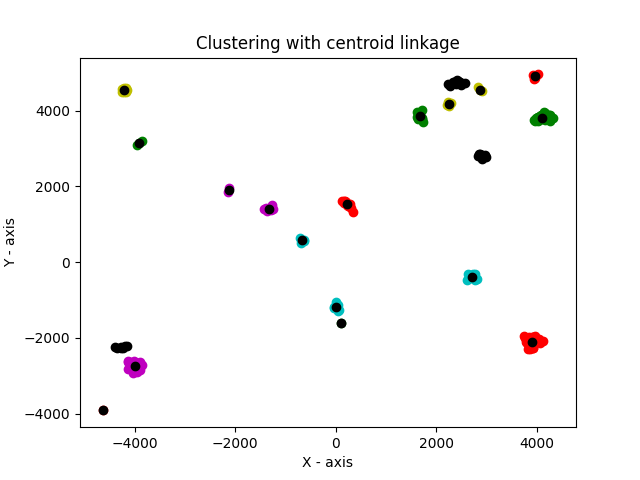
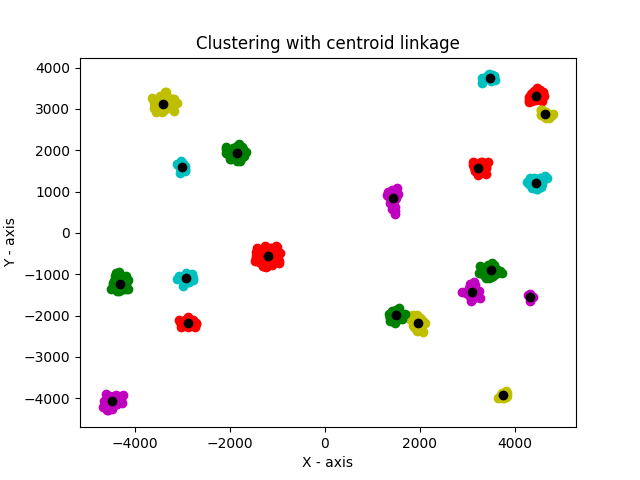
save dalsi

diff --git a/main.py b/main.py
@@ -1,10 +1,8 @@
 # UI assignment 3c -> clustering, author: Filip Zubaj, date: 17.11.2023
 from random import randint, choice
-from typing import List, Tuple
 import matplotlib.pyplot as plt
 
-# ----- DEFINITIONS -----
-point = Tuple[int, int]
+
 
 
 # ----- QUESTIONS -----
@@ -14,20 +12,48 @@ point = Tuple[int, int]
 # aglomeration -> centroid
 
 class Cluster:
-    def __init__(self, points: List[point], linkage: str):
+    def __init__(self, points, linkage):
         self.points = points
         self.linkage = linkage
         self.center = self.calculate_center(self.linkage)
         self.average_distance = self.calculate_average_distance()
+        self.avg_distance_under_500 = True
 
-    def calculate_center(self, linkage: str) -> point:
+    def calculate_center(self, linkage):
         if linkage == 'centroid':
+            x_sum, y_sum = map(sum, zip(*self.points))
+            return int(x_sum / len(self.points)), int(y_sum / len(self.points))
+        elif linkage == 'metoid':
+            metoid = self.points[0]
+            min_sum = sum(calculate_distance(metoid, one_point) for one_point in self.points)
 
+            for curr_point in self.points:
+                point_sum = sum(calculate_distance(curr_point, one_point) for one_point in self.points)
+                if point_sum < min_sum:
+                    min_sum = point_sum
+                    metoid = curr_point
 
+            return metoid
+        else:
+            print('Wrong linkage')
+            exit(1)
+
+    def calculate_average_distance(self):
+        center = self.calculate_center(self.linkage)
+        return sum(calculate_distance(center, cluster_point) for cluster_point in self.points) / len(self.points)
+
+    def update_center_and_distance(self):
+        self.center = self.calculate_center(self.linkage)
+        self.average_distance = self.calculate_average_distance()
+
+    def check_distance_condition(self, other_cluster):
+        check = self.average_distance + other_cluster.average_distance
+        if check > 500:
+            self.avg_distance_under_500 = False
 
 
 # generate 20 points in range (-5000, 5000) with random and unique X and Y coordinates
-def generate_origin_points() -> List[point]:
+def generate_origin_points():
     origin_points = set()
     while len(origin_points) < 20:
         x = randint(-5000, 5000)
@@ -37,7 +63,7 @@ def generate_origin_points() -> List[point]:
     return list(origin_points)
 
 
-def generate_matrix_of_distances(points: List[point]) -> List[List[float]]:
+def generate_matrix_of_distances(points):
     n = len(points)
     matrix_of_distances = [[0.0 for _ in range(n)] for _ in range(n)]
 
@@ -49,7 +75,7 @@ def generate_matrix_of_distances(points: List[point]) -> List[List[float]]:
     return matrix_of_distances
 
 
-def create_another_points(origin_points: List[point], number: int) -> List[point]:
+def create_another_points(origin_points, number):
     final_points = set(origin_points)
 
     boundary_x1 = -100
@@ -75,107 +101,75 @@ def create_another_points(origin_points: List[point], number: int) -> List[point
     return list(final_points)
 
 
-# I calculate centroid as integer -> average of X and Y coordinates
-def calculate_centroid(points: List[point]) -> point:
-    x_sum, y_sum = map(sum, zip(*points))
-    return int(x_sum / len(points)), int(y_sum / len(points))
-
-
-# metoid is the point, thas it has the smallest sum of distances to other points in cluster
-# it is not just an imaginary point, it is one of the points in cluster
-def calculate_metoid(points: List[point]) -> point:
-    metoid = points[0]
-    min_sum = sum(calculate_distance(metoid, one_point) for one_point in points)
-
-    for curr_point in points:
-        point_sum = sum(calculate_distance(curr_point, one_point) for one_point in points)
-        if point_sum < min_sum:
-            min_sum = point_sum
-            metoid = curr_point
-
-    return metoid
-
-
-def calculate_distance(point1: point, point2: point) -> float:
+def calculate_distance(point1, point2):
     return ((point1[0] - point2[0]) ** 2 + (point1[1] - point2[1]) ** 2) ** 0.5
 
 
-def calculate_cluster_distance(cluster1: List[point], cluster2: List[point], linkage: str) -> float:
-    if linkage == 'centroid':
-        center1 = calculate_centroid(cluster1)
-        center2 = calculate_centroid(cluster2)
-    elif linkage == 'metoid':
-        center1 = calculate_metoid(cluster1)
-        center2 = calculate_metoid(cluster2)
-    else:
-        print('Wrong linkage')
-        exit(1)
-    return calculate_distance(center1, center2)
+def calculate_cluster_distance(cluster1, cluster2):
+    return calculate_distance(cluster1.center, cluster2.center)
 
 
-def agglomerative_clustering(points: List[point], number_of_clusters: int, linkage: str) -> List[List[point]]:
+def agglomerative_clustering(points, number_of_clusters, linkage, num_points):
     # first we create the distance matrix
     # matrix_of_distances = generate_matrix_of_distances(points)
-    clusters = [[curr_point] for curr_point in points]
+    clusters = [Cluster([curr_point], linkage) for curr_point in points]
 
     while len(clusters) > number_of_clusters:
+
+        if len(clusters) == int(num_points * 0.75):
+            print("25% . . .")
+        elif len(clusters) == int(num_points / 2):
+            print("50% . . .")
+        elif len(clusters) == int(num_points / 4):
+            print("75% . . .")
+
         min_distance = float('inf')
         connect_clusters = (-1, -1)
 
         for i in range(len(clusters)):
             for j in range(i + 1, len(clusters)):
-                distance = calculate_cluster_distance(clusters[i], clusters[j], linkage)
-                if distance < min_distance:
+                distance = calculate_cluster_distance(clusters[i], clusters[j])
+                if distance < min_distance and clusters[i].avg_distance_under_500 and clusters[j].avg_distance_under_500:
                     min_distance = distance
                     connect_clusters = (i, j)
 
         if connect_clusters != (-1, -1):
-            clusters[connect_clusters[0]].extend(clusters[connect_clusters[1]])
+            clusters[connect_clusters[0]].check_distance_condition(clusters[connect_clusters[1]])
+            if not clusters[connect_clusters[0]].avg_distance_under_500:
+                continue
+            clusters[connect_clusters[0]].points.extend(clusters[connect_clusters[1]].points)
+            clusters[connect_clusters[0]].update_center_and_distance()
             del clusters[connect_clusters[1]]
 
     return clusters
 
-# nájst najmensiu hodnotu a indexy
-# spojiť tieto clusters
-# vymazať druhý cluster
-# update distance matrix
 
-
-def validate_clusters(clusters: List[List[point]], linkage: str) -> bool:
+def validate_clusters(clusters):
     unsuccessful = 0
     for i, cluster in enumerate(clusters):
-        if linkage == 'centroid':
-            center = calculate_centroid(cluster)
-        else:
-            center = calculate_metoid(cluster)
-
-        average_distance = sum(calculate_distance(center, cluster_point) for cluster_point in cluster) / len(cluster)
-        if average_distance > 500:
+        center, avg_distance = cluster.center, cluster.average_distance
+        if avg_distance > 500:
             unsuccessful += 1
             print(f'❌Error❌: unsuccessful cluster with number {str(i + 1)}')
         else:
             print(f'✅Success✅: successful cluster with number {str(i + 1)}')
 
         print(f'Center: {str(center)}')
-        print(f'Average distance from center: {str(average_distance)}')
+        print(f'Average distance from center: {str(avg_distance)}')
 
     print(f'Success rate: {100 - unsuccessful / len(clusters) * 100}%')
 
 
-def visualise_clusters(clusters: List[List[point]], linkage: str, filename) -> None:
+def visualise_clusters(clusters, filename):
     colors = ['r', 'g', 'y', 'c', 'm', 'k']
 
     for i, cluster in enumerate(clusters):
-        x = [one_point[0] for one_point in cluster]
-        y = [one_point[1] for one_point in cluster]
+        x = [one_point[0] for one_point in cluster.points]
+        y = [one_point[1] for one_point in cluster.points]
         plt.scatter(x, y, c=colors[i % len(colors)])
-        if linkage == 'centroid':
-            center = calculate_centroid(cluster)
-        else:
-            center = calculate_metoid(cluster)
-        plt.scatter(center[0], center[1], c='black')
+        plt.scatter(cluster.center[0], cluster.center[1], c='b')
 
-    plt.title(f'Clustering with {linkage} linkage')
+    plt.title(f'Clustering with {clusters[0].linkage} linkage')
     plt.xlabel('X - axis')
     plt.ylabel('Y - axis')
     plt.savefig(filename)
@@ -183,12 +177,13 @@ def visualise_clusters(clusters: List[List[point]], linkage: str, filename) -> N
 
 
 def main():
+    num_points = 5000
     origin_points = generate_origin_points()
-    another_points = create_another_points(origin_points, 200)
+    another_points = create_another_points(origin_points, num_points)
     linkage = 'centroid'
-    clusters = agglomerative_clustering(another_points, 20, linkage)
-    validate_clusters(clusters, linkage)
-    visualise_clusters(clusters, linkage, 'clustering1.png')
+    clusters = agglomerative_clustering(another_points, 20, linkage, num_points)
+    validate_clusters(clusters)
+    visualise_clusters(clusters, 'clustering1.png')
 
 
 if __name__ == '__main__':
